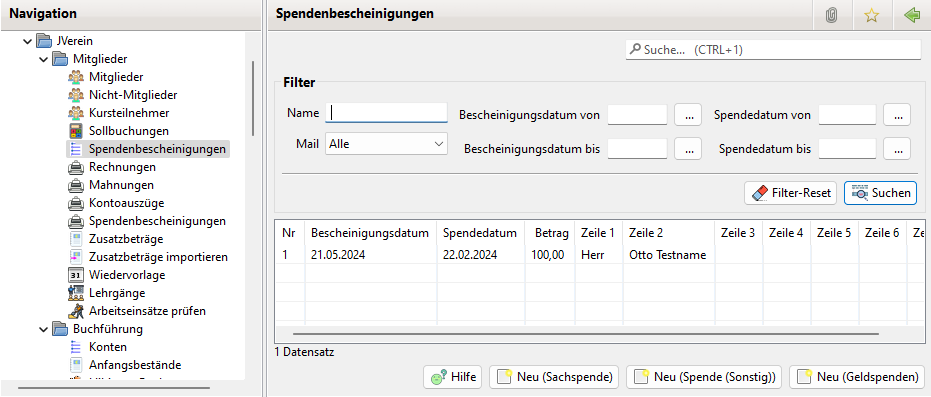
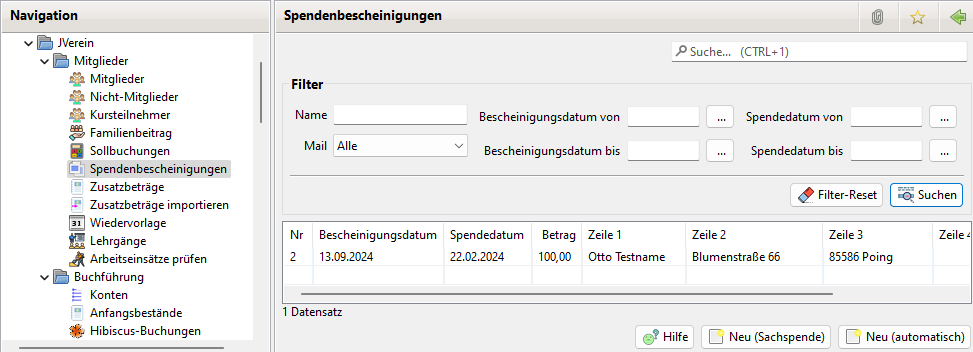
Korrekturen für Einstellung und Spendenbescheinigung

diff --git a/allgemeine-funktionen/mitglieder/spendenbescheinigung.md b/allgemeine-funktionen/mitglieder/spendenbescheinigung.md
@@ -4,9 +4,12 @@ Mit JVerein können Spendenbescheinigungen ausgestellt und gespeichert werden. V
 
 ## Allgemeines
 
-JVerein unterstützt das Erstellen von:
-* Sachspendenbescheinigungen
-* Geldspendenbescheinigungen
+JVerein unterstützt das Erstellen von Spendenbescheinigungen für:
+* Sachspenden
+* Aufwandsspenden
+* Vergütungsspenden (Rückspenden)
+* Leistungsspenden
+* Geldspenden
 
 Im View Spendenbescheinigungen werden bereits erstellte Spendenbescheinigungen angezeigt.
 
@@ -44,6 +47,16 @@ Sachspendenbescheinigungen können auf verschiedene Art erzeugt werden:
 
 * Als vierte Möglichkeit kann in der Liste Spendenbescheinigungen der Button "Neu \(Sachspende\)" gedrückt werden. Da hier kein Mitglied ausgewählt ist müssen die Daten des Spenders eingetragen werden. Es ist zu beachten, dass dabei kein Bezug zu einem Mitglied hergestellt wird und darum z.B. ein Versenden per Mail aus JVerein heraus später nicht möglich ist da keine Mail Adresse hinterlegt ist.
 
+## Spendenbescheinigung für Aufwandsspenden, Vergütungsspendespenden (Rückspende) und Leistungsspenden erstellen
+
+Bei dieser Art von Spende handelt es sich um den Verzicht auf Erstattung von Aufwand, Vergütung oder Leistungen. Diese werden über die Spendenart Geldspende bescheinigt wobei auf dem Spendenformular die Frage nach dem Verzicht auf Aufwendungen mit Ja beantwortet wird.
+
+In JVerein kann diese Art der Spendenbescheinigung nur über das Anlegen einer Buchung mit dem zu bescheinigenden Betrag erzeugt werden. In der Buchung ist die Checkbox "Erstattungsverzicht" zu setzen.
+
+Das Erzeugen der Spendenbescheinigung erfolgt wie nachfolgend bei Geldspendenbescheinigungen beschrieben.
+
+Zu beachten ist, dass bei Sammelbescheinigungen diese Art der Spende mit Geldspenden gemischt sein kann. Auf der zeiten Seite der Spendenbescheinigung wird dann für jede enthaltene Buchung ausgewiesen ob es sich um Verzicht auf Erstattung von Aufwänden handelt oder nicht.
+
 ## Geldbescheinigungen erstellen
 
 ### Voraussetzungen
@@ -65,6 +78,8 @@ Die Zuordnung einer Buchung zu einer Sollbuchung kann auf verschiede Arten erzeu
 
 * Im Mitglieds View unter dem Tab Mitgliedskonto eine Istbuchung auswählen \(Buchung mit Euro Symbol\). Mit einem Klick auf die rechte Maustaste öffnet sich ein Kontextmenü um die Geldspendenbescheinigung zu erstellen. In diesem Fall werden die Mitgliedsdaten komplett in die Spendenbescheinigung übernommen, die Buchung bestimmt den Betrag und das Spendendatum.
 
+  ![](../../assets/spendenbescheinigung_menu2.png)
+
 ### Geldspendenbescheinigung automatisch erstellen
 
 Voraussetzungen für die automatische Generierung von Geldspendenbescheinigungen:
@@ -79,7 +94,13 @@ Werden für ein Mitglied mehrere Buchungen gefunden werden sie zu einer Sammelbe
 Geldspendenbescheiniguungen können automatisch auf mehrere Arten erzeugt werden:
 
 * In der Mitgliedersuche kann man mit einem Klick auf die rechte Maustaste ein Kontextmenü öffnen. Darin den Menüpunkt Geldspendenbescheinigung auswählen. In diesem Fall werden die Mitgliedsdaten komplett in die Spendenbescheinigung übernommen, die erste Buchung bestimmt das Spendendatum, der Betrag ist die Summe der Beträge aller Buchungen.
+
+  ![](../../assets/spendenbescheinigung_menu1.png)
+
 * Alternativ kann im Mitglieds View unter dem Tab Mitgliedskonto das Mitglied ausgewählt werden. Mit einem Klick auf die rechte Maustaste öffnet sich ein Kontextmenü um die Spendenbescheinigungen zu erstellen. In diesem Fall werden die Mitgliedsdaten komplett in die Spendenbescheinigung übernommen, die erste Buchung bestimmt das Spendendatum, der Betrag ist die Summe der Beträge aller Buchungen.
+
+  ![](../../assets/spendenbescheinigung_menu2.png)
+
 * In der Übersicht über Spendenbescheinigungen können über den Button \"Neu \(Automatisch\)\" Geldspendenbescheinigungen generiert werden.
 
 
@@ -111,46 +132,4 @@ Für eine korrekte Formatierung sollte eine Schriftart mit fester Zeichenbereite
 
 ### Einstellungen
 
-#### Lang-Name
-
-Langer Name des Vereins, bis 70 Zeichen
-
-#### BegünstigterZweck
-
-Bis zu 100 Zeichen
-
-#### Straße
-
-Bis zu 50 Zeichen
-
-#### Ort
-
-Bis zu 50 Zeichen
-
-#### Dateinamenmuster Spende
-
-Für die Generierung von Dokumenten mit Mitglieds-Bezug. Zunächst nur für Spendenbescheinigungen genutzt, könnte aber auch für Kontoauszug des Mitgliedskontos oder den Personalbogen genutzt werden.
-
-#### Mindestbetrag für Spendenbescheinigungen
-
-Allgemeine Einstellung ab welchem Betrag eine Spendenbescheinigung erstellt werden soll. Diese Einstellung kommt bei der automatischen Generierung von Spendebescheinigungen zum Tragen. Bei der Erzeugung einer Spendenbescheinigung aus einem Mitglkiedskonto heraus, wird diese Einstellung nicht beachtet.
-
-#### Verzeichnis für Spendenbescheinigungen
-
-Um ein flüssiges Erzeugen von mehreren Dokumenten zu ermöglichen, kann hier das Verzeichnis für die PDF-Dateien festgelegt werden. Wenn aus der Liste der Spendenbescheinigungen heraus die Dokumente generiert werden, werden sie in diese Verzeichnis geschrieben. Das Verzeichnis wird auch vorbelegt, wenn eine Dokumentenerstellung aus der Detailansicht Spendenbescheinigung erfolgt. Hier wird jedoch der Dateidialog angeboten.
-
-#### Drucke Buchungsart
-
-Ist das Häkchen gesetzt, wird in der Buchungsliste nicht der Zweck aus der Buchung, sondern die der Buchung zugewiesene Buchungsart verwendet. Bei sprechenden Namen eine einheitlichere Darstellung.
-
-#### Unterschrift drucken
-
-Ist das Häkchen gesetzt, wird beim Standard Druck eine Unterschrift in die Spendenbescheinigung eingefügt.
-
-#### Unterschrift
-
-Hie lässt sich ein Bild der Unterschrift einfügen welche entsprechend der selektierten Option eingefügt wird.
-
-#### Spendenbescheinigung Anhang bei Mail Versand in DB spechern
-
-Ist das Häkchen gesetzt, wird die Spendenbescheingung bei Mailversand zusammen mit der Mail in der Datenbank gespeichert. Öffnet man die Mail erneut wird der Anhang mit angezeigt.
+Mögliche einstellungen zu Spendenbescheinigungen siehe [Einstellungen](../administration/einstellungen.md).

diff --git a/allgemeine-funktionen/administration/einstellungen.md b/allgemeine-funktionen/administration/einstellungen.md
@@ -8,6 +8,7 @@ Die Pflichtfelder werden von der Abrechnung für die Erstellung der Lastschrifte
 
 ![](../../assets/einstellungenallgemein.png)
 
+
 ## Anzeige
 
 ![](../../assets/einstellungenanzeige.png)
@@ -117,6 +118,21 @@ Anzeige der kompletten Liste stellt eine Drop-Down-Liste mit allen Buchungsarten
 
 Wie sollen die Buchungsarten sortiert werden: nach Bezeichnung, nach Nummer oder nach Bezeichnung/Nummer.
 
+
+## Mitglieder Spalten
+
+![](../../assets/einstellungenmitgliederspalten.png)
+
+Festlegung der Spalten, die in der Mitglieder Tabelle angezeigt werden sollen.
+
+
+## Mitglieder Ansicht
+
+![](../../assets/einstellungenmitgliederansicht.png)
+
+Festlegung der Ansicht der Mitglieder Daten. Es kann ausgewählt werden welche Daten direkt angezeigt werden oder innerhalb der Tabs.
+
+
 ## Abrechnung
 
 ![](../../assets/einstellungenabrechnung.png)
@@ -149,7 +165,7 @@ Es können beim Erfassen der Arbeitsstunden nur positive Werte im Stundenfeld ei
 
 Beim Erfassen der Arbeitsstunden vom Mitgliedern können im Stundenfeld positive und negative Werte eingetragen werden. Positive und negative Werte können sich gegenseitig aufheben. Negative Werte können die Gesamtschuld an Arbeitsstunden bei einem Mitglied erhöhen und zu einer höheren Buchung von Zusatzbeiträgen führen.
 
-## Dateinamenmuster
+## Dateinamen
 
 ![](../../assets/einstellungendateinamen.png)
 
@@ -166,17 +182,35 @@ Folgende Variable stehen zur Verfügung:
 
 Verzeichnis für CSV-Vorlagen.
 
+
 ## Spendenbescheinigungen
 
 ![](../../assets/einstellungenspendenbescheinigungen.png)
 
 Hier können die Werte zur Erstellung von Spendenbescheinigungen eingestellt werden.
 
-Mindestbetrag: Es werden nur Spendenbescheinigungen für Einzelspenden ausgestellt, die diesen Betrag übersteigen.
+Neben den steuerlich relevanten Informationen können folgende Daten konfiguriert werden.
 
-Verzeichnis: In einem Durchlauf können mehrere Spendenbescheinigungen erstellt werden. Jede Spendenbescheinigung wird in ein eigenes Dokument ausgegeben und in das angegebene Verzeichnis gespeichert.
+#### Mindestbetrag für Spendenbescheinigungen
 
-Buchungsart drucken: Im Normalfall wird der Verwendungszweck aus der Buchung in die Spendenbescheinigung übernommen. Sofern diese Option aktiviert wurde, wird der Text aus der Buchungsart genommen.
+Allgemeine Einstellung ab welchem Betrag eine Spendenbescheinigung erstellt werden soll. Diese Einstellung kommt bei der automatischen Generierung von Spendebescheinigungen zum Tragen.
+
+#### Verzeichnis für Spendenbescheinigungen
+
+Um ein flüssiges Erzeugen von mehreren Dokumenten zu ermöglichen, kann hier das Verzeichnis für die PDF-Dateien festgelegt werden. Wenn aus der Liste der Spendenbescheinigungen heraus die Dokumente generiert werden, werden sie in diese Verzeichnis geschrieben. Das Verzeichnis wird auch vorbelegt, wenn eine Dokumentenerstellung aus der Detailansicht Spendenbescheinigung erfolgt. Hier wird jedoch der Dateidialog angeboten.
+
+#### Buchungsart drucken
+
+Ist das Häkchen gesetzt, wird in der Buchungsliste nicht der Zweck aus der Buchung, sondern die der Buchung zugewiesene Buchungsart verwendet. Bei sprechenden Namen eine einheitlichere Darstellung.
+
+#### Unterschrift drucken
+
+Ist das Häkchen gesetzt, wird beim Standard Druck eine Unterschrift in die Spendenbescheinigung eingefügt.
+
+#### Unterschrift
+
+Hier lässt sich ein Bild der Unterschrift einfügen welche entsprechend der selektierten Option eingefügt wird.
+
 
 ## Buchführung
 
@@ -200,27 +234,23 @@ Zeige Kontonummer in der Buchungsliste.
 
 Umsatzsteueroption.
 
+
 ## Rechnungen
 
 ![](../../assets/einstellungenrechnungen.png)
 
 Texte für die einzelnen Zahlungswege für den Rechnungsdruck. In den Text zur Abbuchung können die Variablen ${IBAN}, ${BIC}, ${MANDATID}, ${Konto} und ${BLZ} eingemischt werden.
 
-## Mitglieder Spalten
+Es ist möglich einen QR Code mit den Rechnungsdaten auf die Rechnung zu plazieren. Dazu sind die entsprechenden Felder zu konfigurieren.
 
-![](../../assets/einstellungenmitgliederspalten.png)
-
-Festlegung der Spalten, die in der Mitglieder Tabelle angezeigt werden sollen.
-
-## Mitglieder Ansicht
-
-![](../../assets/einstellungenmitgliederansicht.png)
-
-Festlegung der Ansicht der Mitglieder Daten. Es kann ausgewählt werden welche Daten direkt angezeigt werden oder innerhalb der Tabs.
 
 ## Mail <a id="einstellungenmail"></a>
 
-![](../../assets/mail-einstellungen-screenshot.png)
+In diesem Dialog sind die Daten für den Mailzugang einzurichen.
+
+![](../../assets/einstellungenmail.png)
+
+Über die Option "Bei Mail Versand von Formularen Anhang in DB speichern" lässt sich einstellen, ob bei versendeten Formularen wie z.B. Rechnung, Mahnung etc. der Mailanhang zusammen mit der Mail in der Datenbank gespeichert werden sollen. Damit lässt sich später beim betrachten der Mail auch der Anhang sehen.
 
 Alternativ zur EMail-Adresse kann auch der Name zur Absenderadresse hinzugefügt werden: "Mein Name &lt;vorstand@verein.de&gt;" Wichtig ist dabei das Format: \(Name\) \(Spitze Klammer auf\) \(Email\) \(Spitze Klammer zu\)
 
@@ -232,6 +262,7 @@ Um versendete EMails auch im EMail-Postfach \(und nicht nur in JVerein\) abzuleg
 2. Die EMail in den "Gesendete"-Ordner eines ggf. vorhandenen IMAP-Kontos ablegen. Dazu den Bereich "IMAP 'Gesendete'-Ordner mit den IMAP-Zugangsdaten ausfüllen und "Kopie in 'Gesendete'-Ordner IMAP ablegen" anklicken. Der technische Name des "Gesendete"-Ordners kann variieren, ist aber meist "Sent".
 
 Beide Möglichkeiten können auch kombiniert werden.
+
 
 ## Statistik
 
@@ -250,4 +281,3 @@ Ab Version 2.5 gibt es das Feld Mindestalter f. Mitgliedschaftsjubiläum
 Geben Sie hier eine Zahl ein, dann werden Mitgliedsjahre, die vor diesem Alter liegen beim Errechnen eines Mitglieds-Jubiläums nicht mit gerechnet.
 
 Für weitere technische Details siehe: [Für Entwickler](../../sonstiges/fur-entwickler.md)
-

diff --git a/allgemeine-funktionen/druckmail/pre-notification.md b/allgemeine-funktionen/druckmail/pre-notification.md
@@ -47,7 +47,7 @@ Im Block Mail wird der Mail-Text eingegeben und schließlich der Startknopf gedr
 
 Über die Buttons lässt sich eine gespeicherte Mailvorlage auswählen.
 
-Das drücken des Startknopf löst bei korrekt eingestellten E-Mail-Server-Daten den Versand der E-Mails aus. Es ist daher ratsam, diese Funktion im Vorfeld zu testen, ohne mit echten Mitgliederdaten/e-mails zu hantieren.
+Das drücken des Startknopf löst bei korrekt eingestellten E-Mail-Server-Daten den Versand der E-Mails aus. Es ist daher ratsam, diese Funktion im Vorfeld zu testen, ohne mit echten Mitgliederdaten/E-Mails zu hantieren.
 
 Die versendeten Pre-Notification-E-Mails werden nach dem Versand beim jeweiligen Mitglied in der Mail-Historie gespeichert.
 

diff --git a/allgemeine-funktionen/druckmail/rechnungen.md b/allgemeine-funktionen/druckmail/rechnungen.md
@@ -20,7 +20,7 @@ Im Info Feld wird angezeigt wieviele Sollbuchungen selektiert wurden und ob  zug
 
 Über die Buttons lässt sich eine gespeicherte Mailvorlage auswählen bzw. die Rechnung exportieren.
 
-Das drücken des Startknopf löst bei korrekt eingestellten E-Mail-Server-Daten den Versand der E-Mails aus. Es ist daher ratsam, diese Funktion im Vorfeld zu testen, ohne mit echten Mitgliederdaten/e-mails zu hantieren.
+Das drücken des Startknopf löst bei korrekt eingestellten E-Mail-Server-Daten den Versand der E-Mails aus. Es ist daher ratsam, diese Funktion im Vorfeld zu testen, ohne mit echten Mitgliederdaten/E-Mails zu hantieren.
 
 ## Rechnungen automatisch erstellen
 

diff --git a/allgemeine-funktionen/druckmail/mahnungen.md b/allgemeine-funktionen/druckmail/mahnungen.md
@@ -18,7 +18,7 @@ Im Info Feld wird angezeigt wieviele Sollbuchungen selektiert wurden und ob  zug
 
 Über die Buttons lässt sich eine gespeicherte Mailvorlage auswählen bzw. die Mahnung exportieren.
 
-Das drücken des Startknopf löst bei korrekt eingestellten E-Mail-Server-Daten den Versand der E-Mails aus. Es ist daher ratsam, diese Funktion im Vorfeld zu testen, ohne mit echten Mitgliederdaten/e-mails zu hantieren.
+Das drücken des Startknopf löst bei korrekt eingestellten E-Mail-Server-Daten den Versand der E-Mails aus. Es ist daher ratsam, diese Funktion im Vorfeld zu testen, ohne mit echten Mitgliederdaten/E-Mails zu hantieren.
 
 ## Mahnungen automatisch erstellen
 

diff --git a/allgemeine-funktionen/druckmail/kontoauszug.md b/allgemeine-funktionen/druckmail/kontoauszug.md
@@ -24,7 +24,7 @@ Im Info Feld wird angezeigt wieviele Mitglieder selektiert wurden und welche kei
 
 Über die Buttons lässt sich eine gespeicherte Mailvorlage auswählen.
 
-Das drücken des Startknopf löst bei korrekt eingestellten E-Mail-Server-Daten den Versand der E-Mails aus. Es ist daher ratsam, diese Funktion im Vorfeld zu testen, ohne mit echten Mitgliederdaten/e-mails zu hantieren.
+Das drücken des Startknopf löst bei korrekt eingestellten E-Mail-Server-Daten den Versand der E-Mails aus. Es ist daher ratsam, diese Funktion im Vorfeld zu testen, ohne mit echten Mitgliederdaten/E-Mails zu hantieren.
 
 ## Kontoauszüge automatisch erstellen
 
